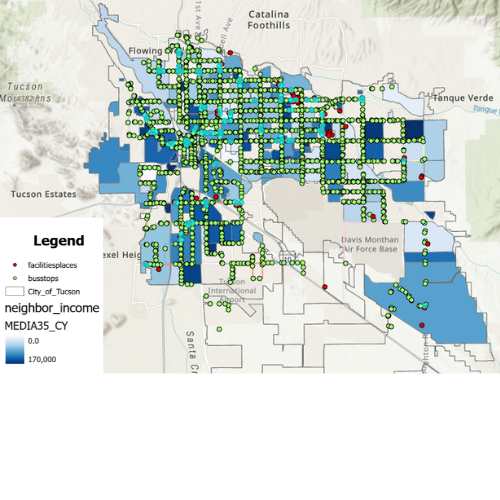
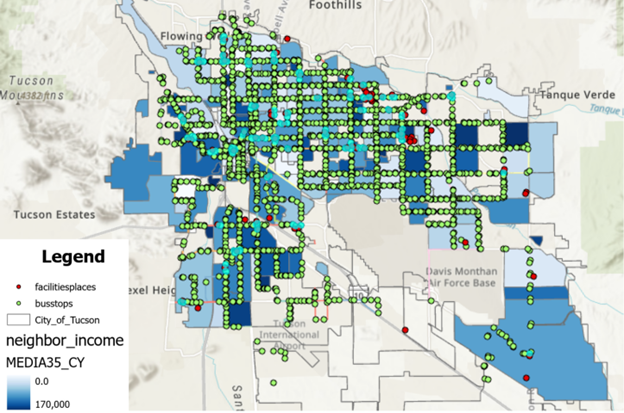
Updated visualtions with bigger image

diff --git a/visualizations.html b/visualizations.html
@@ -52,7 +52,7 @@
 
       <div class="visual-grid viz-box">
         <div class="visual-card">
-            <img src="img/gis_map.png" alt=""Heatmap Showing Density of Bus Stops per Zip Code"" />
+            <img src="img/arc_gis_map.png" alt=""Heatmap Showing Density of Bus Stops per Zip Code"" />
             <p>"GIS Map showing bus routes mapped to income"</p>
         </div>
       </div>
